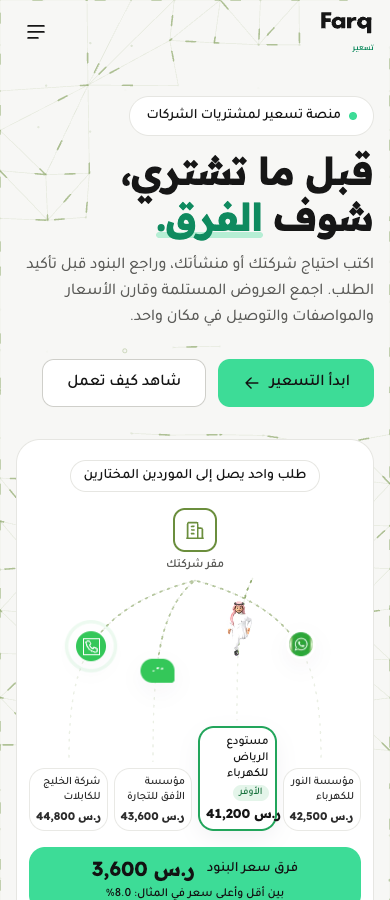
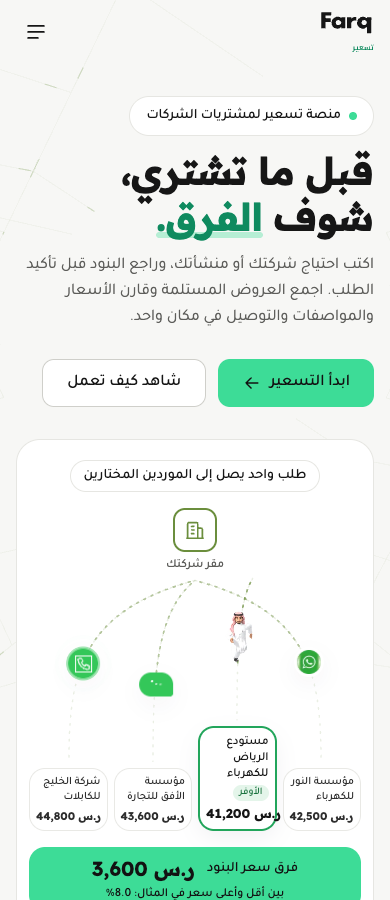
feat: calm two-sided web network across pricing pages

diff --git a/src/live-bg/pageNetwork.ts b/src/live-bg/pageNetwork.ts
@@ -1,3 +1,4 @@
+import { webMesh } from './webMesh'
 /*
  * «الشبكة الحية» for the landing page — a port of docs/reference/landing-live-network.html (owner, 2026-10-08):
  * the whole page is ONE network with ONE head office and ONE round. A screen-sized fixed canvas (above the section
@@ -94,6 +95,7 @@ export class PageNetwork {
   private played = 0 // rounds that ran to the end: only the very first one is the short «see it whole» round
   private buckets = new Map<number, number[]>()
   private meshEdges: Edge[] = []
+  private meshVertices: Array<{ x: number; y: number }> = []
   private meshCanvas = document.createElement('canvas')
   private meshScroll = NaN
   private widths = new Map<string, number>()
@@ -193,9 +195,16 @@ export class PageNetwork {
     this.PH = V.map(() => Math.random() * TAU)
     const dd = V.map((v) => this.dist(v.x, v.y))
     this.VF = dd.map((d) => (d <= 4 ? 0 : Math.min(1, (d - 4) / 40))); this.BLK = dd.map((d) => d < 22)
+    // Spacious webs grow inward from the two margins. Keep the request-routing graph independent.
+    this.meshVertices = V
+    let mesh = E
+    if (!this.story) {
+      const { points, edges } = webMesh(W, H, VH)
+      this.meshVertices = points; mesh = edges
+    }
     // Test the entire edge once, so neither the grid nor its pulses pass behind content.
-    this.meshEdges = E.filter((e) => {
-      const a = V[e.a], b = V[e.b], steps = Math.ceil(e.L / 6)
+    this.meshEdges = mesh.filter((e) => {
+      const a = this.meshVertices[e.a], b = this.meshVertices[e.b], steps = Math.ceil(e.L / 6)
       for (let i = 0; i <= steps; i++) if (this.inUI(a.x + (b.x - a.x) * i / steps, a.y + (b.y - a.y) * i / steps, 10)) return false
       return true
     })
@@ -346,11 +355,11 @@ export class PageNetwork {
 
   // ---------- drawing ----------
   private mesh(t: number, live: boolean) {
-    const { ctx, V, meshEdges, SY, VH, DPR } = this
+    const { ctx, meshVertices: V, meshEdges, SY, VH, DPR } = this
     if (this.meshScroll !== SY) {
       const c = this.meshCanvas.getContext('2d')!
       c.setTransform(DPR, 0, 0, DPR, 0, 0); c.clearRect(0, 0, this.VW, VH)
-      c.translate(0, -SY); c.lineWidth = 0.7; c.strokeStyle = col(this.go, 0.13); c.beginPath()
+      c.translate(0, -SY); c.lineWidth = 0.6; c.strokeStyle = col(this.go, 0.085); c.beginPath()
       for (const e of meshEdges) {
         const a = V[e.a], b = V[e.b]
         if (Math.max(a.y, b.y) < SY || Math.min(a.y, b.y) > SY + VH) continue
@@ -360,11 +369,11 @@ export class PageNetwork {
     }
     ctx.drawImage(this.meshCanvas, 0, SY, this.VW, VH)
     if (!live) return
-    ctx.lineWidth = 1.6; ctx.lineCap = 'round'; ctx.strokeStyle = col(this.go, 0.48); ctx.beginPath()
+    ctx.lineWidth = 1.2; ctx.lineCap = 'round'; ctx.strokeStyle = col(this.go, 0.24); ctx.beginPath()
     for (let i = 0; i < meshEdges.length; i++) {
       const e = meshEdges[i], a = V[e.a], b = V[e.b]
       if (Math.max(a.y, b.y) < SY || Math.min(a.y, b.y) > SY + VH) continue
-      const f = (t * 32 / e.L + i * 0.61803398875) % 1, end = Math.min(1, f + 10 / e.L)
+      const f = (t * 24 / e.L + i * 0.07) % 1, end = Math.min(1, f + 12 / e.L)
       ctx.moveTo(a.x + (b.x - a.x) * f, a.y + (b.y - a.y) * f)
       ctx.lineTo(a.x + (b.x - a.x) * end, a.y + (b.y - a.y) * end)
     }
@@ -627,8 +636,8 @@ export class PageNetwork {
     }
   }
   private begin() { this.SY = window.scrollY; const c = this.ctx; c.setTransform(this.DPR, 0, 0, this.DPR, 0, 0); c.clearRect(0, 0, this.VW, this.VH); c.translate(0, -this.SY) }
-  private draw(t: number) { this.begin(); this.mesh(t, true); if (!this.story) { this.dots(t, true); return } this.prep(t); this.scene(t); this.overlay(t) }
-  private drawStatic() { this.begin(); this.mesh(0, false); this.dots(0, false); const C = this.V[this.HUB]; if (C && this.story) this.hq(C.x, C.y) }
+  private draw(t: number) { this.begin(); this.mesh(t, true); if (!this.story) return; this.prep(t); this.scene(t); this.overlay(t) }
+  private drawStatic() { this.begin(); this.mesh(0, false); if (this.story) this.dots(0, false); const C = this.V[this.HUB]; if (C && this.story) this.hq(C.x, C.y) }
 
   private loop = (now: number) => {
     const dt = Math.min(0.05, (now - this.last) / 1000); this.last = now; this.simT += dt

diff --git a/src/live-bg/engine.ts b/src/live-bg/engine.ts
@@ -1,3 +1,4 @@
+import { webMesh } from './webMesh'
 /*
  * «الشبكة الحية» — Canvas 2D port of
  * docs/handoff/farq-live-background/reference/live-background-prototype.html (source of truth for
@@ -134,6 +135,7 @@ export class LiveEngine {
   private ctx: CanvasRenderingContext2D
   private W = 0; private H = 0; private DPR = 1; private scale: 1 | 2 = 1
   private V: Vert[] = []; private E: Edge[] = []; private adj: number[][] = []
+  private ambient = webMesh(1, 1)
   private FLOW: Array<{ sp: number; ph: number; rev: boolean }> = []
   private HUB = 0; private S!: Round; private S_client = 0
   private boxes: Box[] = []; private title: Box | null = null
@@ -273,6 +275,7 @@ export class LiveEngine {
     this.E = E
     this.adj = V.map(() => []); E.forEach((e, i) => { this.adj[e.a].push(i); this.adj[e.b].push(i) })
     const fr = mulberry(29) // ambient pulse seeded like the mesh: the same on every page of the same size
+    this.ambient = webMesh(W, H)
     this.FLOW = E.map((e) => ({ sp: 14 + fr() * 22, ph: fr() * (e.L + 60), rev: fr() < 0.5 }))
     // static layer: facets + the faint mesh
     const shades = FACETS.map((v) => rgba(readColor(this.host, v), 1))
@@ -285,7 +288,7 @@ export class LiveEngine {
   private base0 = 'transparent'
   /** Facets + mesh lines; under every text / control / card the mesh drops to 30 % (readability). */
   private paintStatic() {
-    const b = this.bctx, { V, E, W, H } = this
+    const b = this.bctx, { V, W, H } = this
     b.setTransform(this.DPR, 0, 0, this.DPR, 0, 0); b.globalCompositeOperation = 'source-over'; b.clearRect(0, 0, W, H)
     b.fillStyle = this.base0; b.fillRect(0, 0, W, H)
     this.tris.forEach((q, i) => { b.beginPath(); b.moveTo(V[q[0]].x, V[q[0]].y); b.lineTo(V[q[1]].x, V[q[1]].y); b.lineTo(V[q[2]].x, V[q[2]].y); b.closePath(); b.fillStyle = this.shades[i]; b.fill() })
@@ -295,7 +298,7 @@ export class LiveEngine {
     const L = (this.lines ??= document.createElement('canvas')); L.width = this.bg.width; L.height = this.bg.height
     const l = L.getContext('2d')!; l.setTransform(this.DPR, 0, 0, this.DPR, 0, 0)
     l.lineCap = 'round'; l.lineWidth = 0.8; l.strokeStyle = rgba(this.go, line); l.beginPath()
-    for (const e of E) { l.moveTo(V[e.a].x, V[e.a].y); l.lineTo(V[e.b].x, V[e.b].y) } l.stroke()
+    for (const e of this.ambient.edges) { const a = this.ambient.points[e.a], b = this.ambient.points[e.b]; l.moveTo(a.x, a.y); l.lineTo(b.x, b.y) } l.stroke()
     this.shield(l)
     b.setTransform(1, 0, 0, 1, 0, 0); b.drawImage(L, 0, 0); b.setTransform(this.DPR, 0, 0, this.DPR, 0, 0)
   }
@@ -729,17 +732,16 @@ export class LiveEngine {
   }
 
   private draw(t: number) {
-    const { ctx, V, E, FLOW, W, H, S, go, back } = this
+    const { ctx, V, W, H, S, go, back } = this
     ctx.clearRect(0, 0, W, H)
-    // ambient: a soft pulse on every edge, forever
-    ctx.lineCap = 'round'; ctx.lineWidth = 1.3; ctx.strokeStyle = rgba(go, 0.22); ctx.beginPath()
-    for (let i = 0; i < E.length; i++) {
-      const e = E[i], f = FLOW[i], per = e.L + 60, pos = ((t * f.sp + f.ph) % per) - 30
-      const p0 = Math.max(0, pos - 7) / e.L, p1 = Math.min(e.L, pos + 7) / e.L
-      if (p1 <= 0 || p0 >= 1) continue
-      let a = V[e.a], b = V[e.b]; if (f.rev) { const c = a; a = b; b = c }
-      ctx.moveTo(a.x + (b.x - a.x) * p0, a.y + (b.y - a.y) * p0); ctx.lineTo(a.x + (b.x - a.x) * Math.min(1, p1), a.y + (b.y - a.y) * Math.min(1, p1))
-    }
+    // Quiet pulses spread along the two webs; the existing request paths stay independent.
+    ctx.lineCap = 'round'; ctx.lineWidth = 1.2; ctx.strokeStyle = rgba(go, 0.18); ctx.beginPath()
+    this.ambient.edges.forEach((e, i) => {
+      const a = this.ambient.points[e.a], b = this.ambient.points[e.b]
+      const f = (t * 24 / e.L + i * 0.07) % 1, end = Math.min(1, f + 12 / e.L)
+      ctx.moveTo(a.x + (b.x - a.x) * f, a.y + (b.y - a.y) * f)
+      ctx.lineTo(a.x + (b.x - a.x) * end, a.y + (b.y - a.y) * end)
+    })
     ctx.stroke()
     if (!this.story || !S) { this.shield(ctx); return }
     ctx.lineCap = 'round'; ctx.lineWidth = 1.2

diff --git a/public/gate-network.js b/public/gate-network.js
@@ -4,8 +4,8 @@
  canvas.setAttribute('aria-hidden','true');canvas.style.cssText='position:fixed;inset:0;width:100%;height:100%;pointer-events:none;z-index:0';document.body.prepend(canvas);
  const form=document.querySelector('form');form.style.position='relative';form.style.zIndex='1';form.style.boxSizing='border-box';form.style.width='min(360px,calc(100vw - 32px))';form.style.minWidth='0';
  const ctx=canvas.getContext('2d'),bg=staticCanvas.getContext('2d'),mq=matchMedia('(prefers-reduced-motion: reduce)');let edges=[],raf=0,w=0,h=0,dpr=1;
- function build(){w=innerWidth;h=innerHeight;dpr=Math.min(2,devicePixelRatio||1);canvas.width=staticCanvas.width=Math.round(w*dpr);canvas.height=staticCanvas.height=Math.round(h*dpr);edges=[];const size=w<640?44:54,cols=Math.ceil(w/size)+1,rows=Math.ceil(h/size)+1,points=[];for(let r=0;r<rows;r++)for(let c=0;c<cols;c++)points.push([c*size+Math.sin(r*7+c*13)*5,r*size+Math.cos(r*11+c*3)*5]);const rect=form.getBoundingClientRect();const add=(a,b)=>{for(let i=0;i<=12;i++){const x=a[0]+(b[0]-a[0])*i/12,y=a[1]+(b[1]-a[1])*i/12;if(x>rect.left-14&&x<rect.right+14&&y>rect.top-14&&y<rect.bottom+14)return}edges.push([a,b,Math.hypot(b[0]-a[0],b[1]-a[1])])};for(let r=0;r<rows;r++)for(let c=0;c<cols;c++){const a=points[r*cols+c];if(c+1<cols)add(a,points[r*cols+c+1]);if(r+1<rows)add(a,points[(r+1)*cols+c]);if(r+1<rows&&c+1<cols)add(a,points[(r+1)*cols+c+1])}bg.setTransform(dpr,0,0,dpr,0,0);bg.clearRect(0,0,w,h);bg.strokeStyle='rgba(107,142,61,.13)';bg.lineWidth=.7;bg.beginPath();for(const[a,b]of edges){bg.moveTo(...a);bg.lineTo(...b)}bg.stroke();run()}
- function draw(now){ctx.setTransform(dpr,0,0,dpr,0,0);ctx.clearRect(0,0,w,h);ctx.drawImage(staticCanvas,0,0,w,h);if(mq.matches)return;ctx.lineWidth=1.6;ctx.lineCap='round';ctx.strokeStyle='rgba(107,142,61,.48)';ctx.beginPath();edges.forEach(([a,b,length],i)=>{const f=(now/1000*32/length+i*.61803398875)%1,end=Math.min(1,f+10/length);ctx.moveTo(a[0]+(b[0]-a[0])*f,a[1]+(b[1]-a[1])*f);ctx.lineTo(a[0]+(b[0]-a[0])*end,a[1]+(b[1]-a[1])*end)});ctx.stroke();raf=requestAnimationFrame(draw)}
+ function build(){w=innerWidth;h=innerHeight;dpr=Math.min(2,devicePixelRatio||1);canvas.width=staticCanvas.width=Math.round(w*dpr);canvas.height=staticCanvas.height=Math.round(h*dpr);edges=[];const rect=form.getBoundingClientRect();const add=(a,b)=>{for(let i=0;i<=24;i++){const x=a[0]+(b[0]-a[0])*i/24,y=a[1]+(b[1]-a[1])*i/24;if(x>rect.left-14&&x<rect.right+14&&y>rect.top-14&&y<rect.bottom+14)return}edges.push([a,b,Math.hypot(b[0]-a[0],b[1]-a[1])])};const rays=w<640?7:10,factor=w<640?.65:1;for(const side of [0,1]){let previous=null;for(const radius of [70,145,250,390,570,790,1050]){const ring=[];for(let j=0;j<=rays;j++){const angle=-Math.PI/2+j*Math.PI/rays+(side?Math.PI:0),r=radius*factor*(1+.035*Math.sin(j*5+radius));const point=[(side?w+36:-36)+Math.cos(angle)*r,h*.35+Math.sin(angle)*r];ring.push(point);if(j)add(ring[j-1],point);if(previous)add(previous[j],point)}previous=ring}}bg.setTransform(dpr,0,0,dpr,0,0);bg.clearRect(0,0,w,h);bg.strokeStyle='rgba(107,142,61,.085)';bg.lineWidth=.7;bg.beginPath();for(const[a,b]of edges){bg.moveTo(...a);bg.lineTo(...b)}bg.stroke();run()}
+ function draw(now){ctx.setTransform(dpr,0,0,dpr,0,0);ctx.clearRect(0,0,w,h);ctx.drawImage(staticCanvas,0,0,w,h);if(mq.matches)return;ctx.lineWidth=1.2;ctx.lineCap='round';ctx.strokeStyle='rgba(107,142,61,.24)';ctx.beginPath();edges.forEach(([a,b,length],i)=>{const f=(now/1000*24/length+i*.07)%1,end=Math.min(1,f+10/length);ctx.moveTo(a[0]+(b[0]-a[0])*f,a[1]+(b[1]-a[1])*f);ctx.lineTo(a[0]+(b[0]-a[0])*end,a[1]+(b[1]-a[1])*end)});ctx.stroke();raf=requestAnimationFrame(draw)}
  function run(){cancelAnimationFrame(raf);if(!document.hidden)draw(performance.now())}
  addEventListener('resize',build);document.addEventListener('visibilitychange',run);mq.addEventListener('change',run);build();
 })();

diff --git a/src/live-bg/webMesh.ts b/src/live-bg/webMesh.ts
@@ -1,0 +1,21 @@
+type Edge = { a: number; b: number; L: number }
+export function webMesh(W: number, H: number, VH: number = H) {
+      const points: Array<{ x: number; y: number }> = [], edges: Edge[] = []
+      const add = (a: number, b: number) => edges.push({ a, b, L: Math.hypot(points[a].x - points[b].x, points[a].y - points[b].y) })
+      const rays = W < 640 ? 7 : 10, factor = W < 640 ? 0.65 : 1
+      for (let y = VH * 0.35; y < H + VH; y += VH * 1.6) for (const side of [0, 1]) {
+        const x = side ? W + 36 : -36, rings: number[][] = []
+        for (const radius of [70, 145, 250, 390, 570, 790, 1050]) {
+          const ring: number[] = []
+          for (let j = 0; j <= rays; j++) {
+            const angle = -Math.PI / 2 + j * Math.PI / rays + (side ? Math.PI : 0)
+            const r = radius * factor * (1 + 0.035 * Math.sin(j * 5 + radius))
+            ring.push(points.length); points.push({ x: x + Math.cos(angle) * r, y: y + Math.sin(angle) * r })
+            if (j > 0) add(ring[j - 1], ring[j])
+            if (rings.length) add(rings[rings.length - 1][j], ring[j])
+          }
+          rings.push(ring)
+        }
+      }
+  return { points, edges }
+}

diff --git a/docs/qa/landing-publish/REPORT.md b/docs/qa/landing-publish/REPORT.md
@@ -26,3 +26,9 @@
 - أعيد تشغيل اختبار المتصفح على الموقع المنشور فعليًا: حركة اللاندنق وحاجز الدخول نجحت في 1440 و390؛ لا أخطاء JavaScript ولا تمدد أفقي، وطلب API بلا دخول رجع 401. تم حفظ لقطات وفيديو من الموقع المنشور.
 - الإعادة النهائية الكاملة للاختبارات: **23/23 PASS**، 46.8 ثانية.
 - لم يُكتب شيء في `integration/today`، ولم تُدمج تعديلات Backend أو رحلة العملاء قيد التطوير.
+
+## تحديث الشبكة الهادئة من جهتين
+
+بناءً على توجيه المالك: استُبدلت كثافة الشبكة بخيوط شعاعية متباعدة تبدأ من الهامشين الأيمن والأيسر، مع حلقات غير منتظمة تصل بينها. خُفّض وضوح الخطوط والنبضات وسرعتها، وأزيلت النقاط المنتظمة من اللاندنق. مولد webMesh مشترك بين اللاندنق والتطبيق، مع الحفاظ على مسارات الطلبات وأحمد مستقلة عن شكل الخلفية. حاجز كلمة المرور يتبع الشكل نفسه دون اتصال API.
+
+التحقق: build وtypecheck وlint بلا أخطاء، 23/23 اختبارًا ناجحًا، وحركة فعلية وشبكة ثابتة مع تقليل الحركة وصفر مخالفات axe في 1440 و390. أرقام التوقيت في check.json ضمن اختبار تصوير آلي ولا تصلح كقياس أداء معزول؛ لم تُستخدم لإعلان اجتياز حد الأداء.
